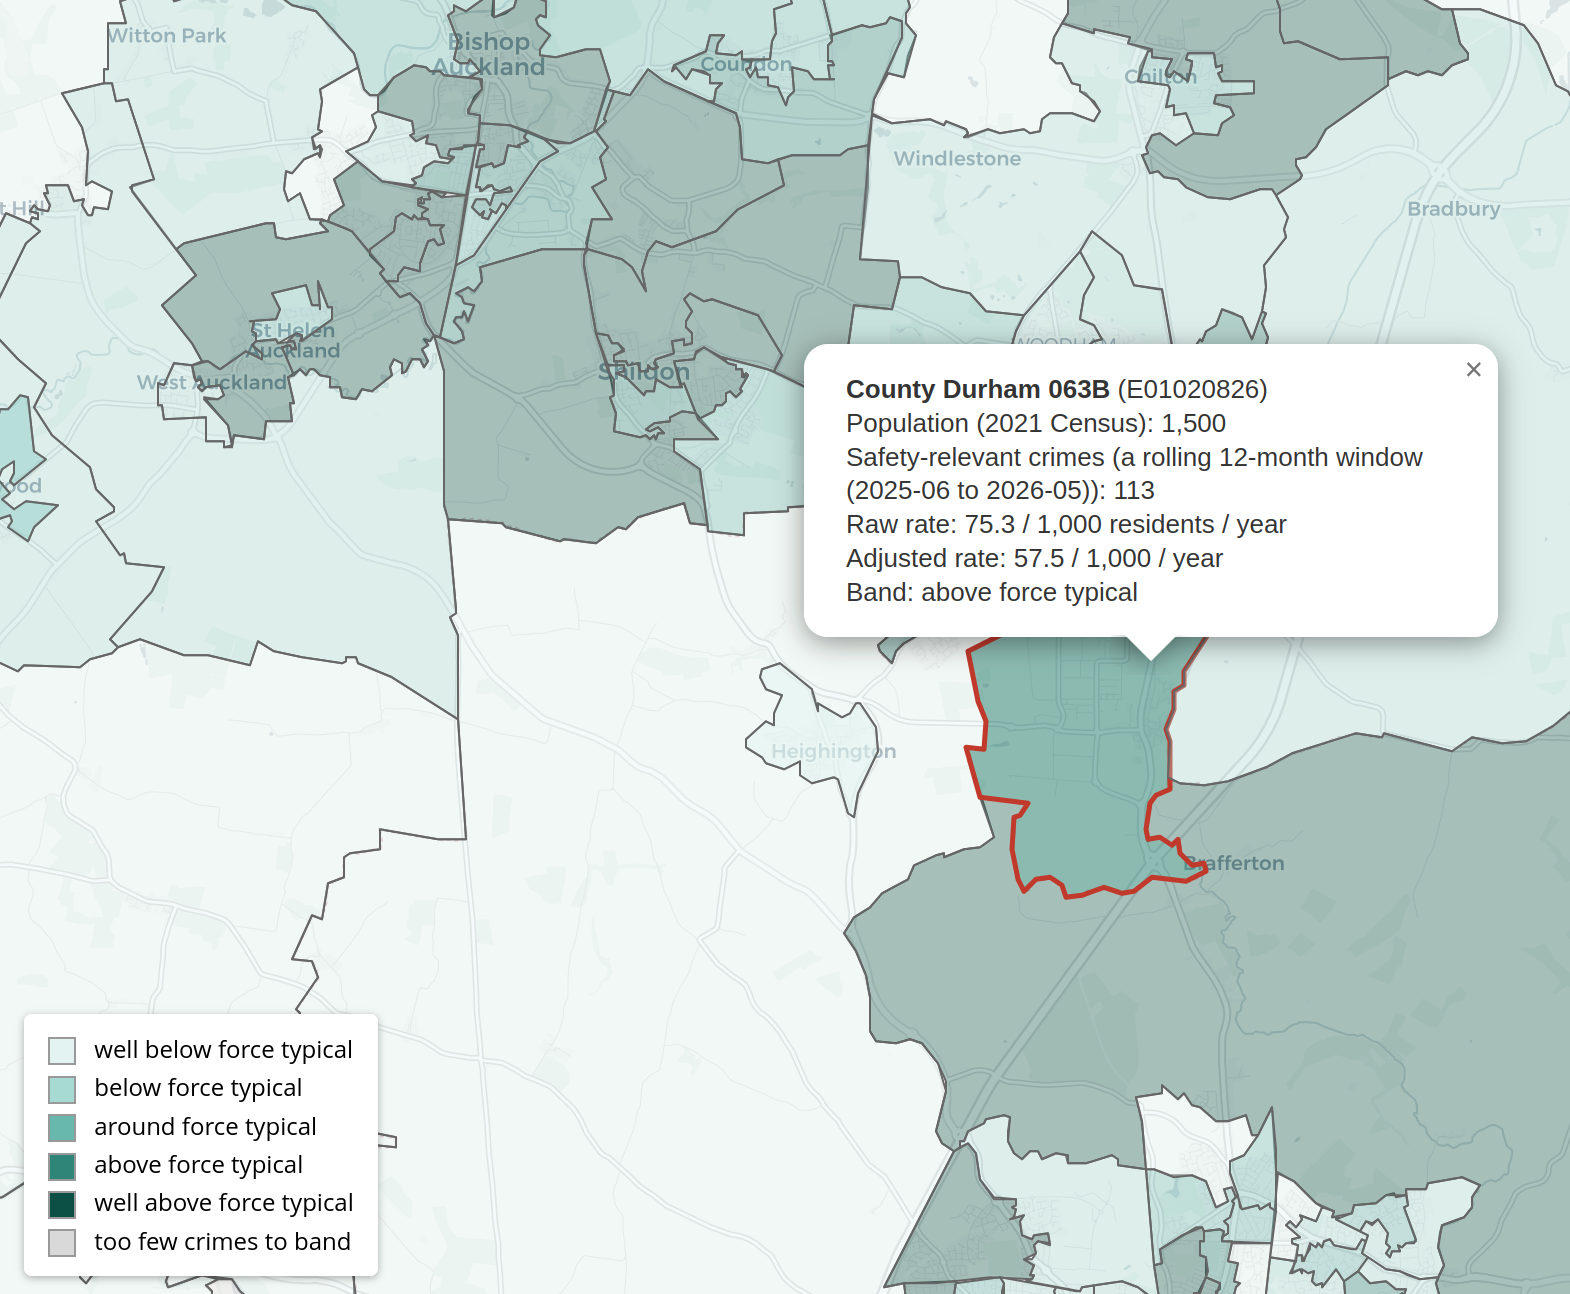
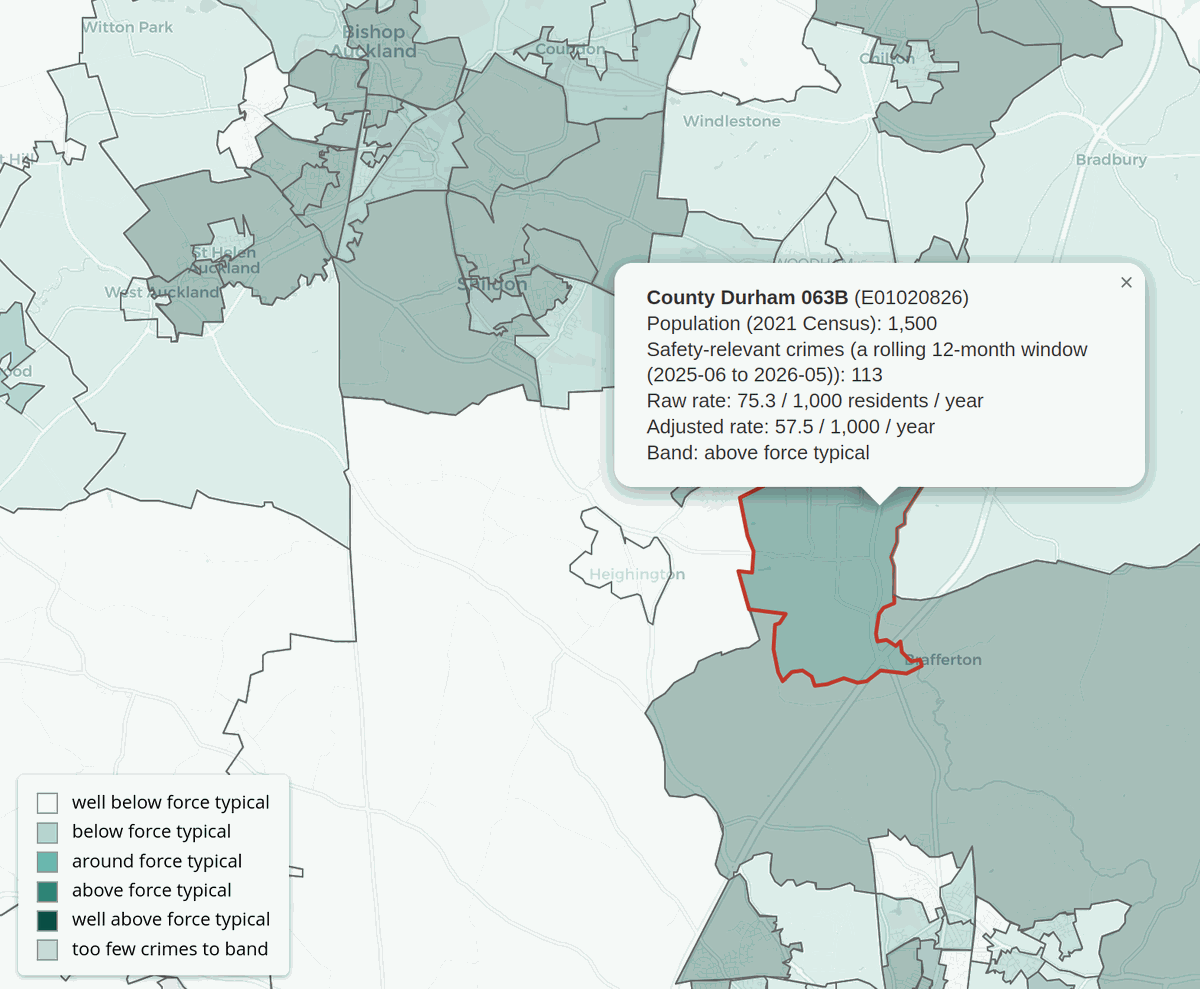
Embed real example output images in docs/examples.md, shrink both in place
Verified both PNGs are genuine example output, not mockups: WorksiteRisk.png shows real Census/crime-rate figures from crime_context_lsoa's own tooltip; the terrain screenshot documents a real rendering bug render.py's docstring already describes as found-and-fixed. Embedded both inline (width-capped <img>) next to their entries instead of just linking out.

Checked for a live preview of the drape's generated HTML - no GitHub Pages site exists and raw.githubusercontent.com serves .html as text/plain, not rendered - so it stays unlinked with an explicit note to generate and open it locally, rather than a link that would silently show source.

Both images were well over a comfortable repo-history size (2.3MB, 712KB) - resized to <=1200px wide and re-encoded as adaptive-palette PNGs (lossless-looking for flat-colour UI screenshots): 2.3MB -> 96KB and 712KB -> 122KB.

diff --git a/docs/examples.md b/docs/examples.md
@@ -48,6 +48,16 @@ missing.
 - **[`crime_context/`](../examples/crime_context/)** — a neighbourhood-level recorded-crime context map for one police force, built on `streetworks.police`. Background context for lone-worker/night-shift planning around street works — explicitly not a risk score or risk assessment. See its own [README](../examples/crime_context/README.md).
 - **[`crime_context_lsoa/`](../examples/crime_context_lsoa/)** — successor to `crime_context/`: LSOA-level geography, a real population denominator, and reframed around a single worksite ("what's the context for the crew going here") rather than a force-wide ranking. See its own [README](../examples/crime_context_lsoa/README.md).
 
+  <img src="../examples/crime_context_lsoa/WorksiteRisk.png" width="600" alt="LSOA-level crime-context choropleth around a Newton Aycliffe worksite, with a tooltip showing population, crime rate and band for one selected area">
+
+  Real output from this example — the tooltip's population, crime-rate and banding figures are genuine, not illustrative.
+
 ## Terrain visualisation
 
 - **[`nsg_terrain_drape/`](../examples/nsg_terrain_drape/)** — drapes OS Open USRN street centrelines over real terrain (OS Terrain 50) for Durham, as a rendered showcase with a genuine teaching point riding along: the drape is derived from two independently-sourced datasets, not stated by either, and it breaks in predictable, visible ways where they disagree. Produces a self-contained HTML view and an STL export for 3D printing. First run downloads and caches OS Open USRN (~300MB) and OS Terrain 50 (~160MB). See its own [README](../examples/nsg_terrain_drape/README.md).
+
+  <img src="../examples/nsg_terrain_drape/Screenshot_2026-08-06_08-52-56.png" width="600" alt="OS Open USRN street centrelines draped over a 3D terrain mesh of Durham, viewed at an angle">
+
+  Real output from an early build — kept because it documents a real rendering artifact (a road briefly dipping under a neighbouring terrain block where two independent samplings of the same terrain disagreed), since fixed; see `render.py`'s own docstring.
+
+  The generated HTML view itself (`durham_3D_showcase.html`) isn't linked here: GitHub serves `.html` files in this repo as raw source, not a rendered page, and this repo has no GitHub Pages site to render it live. Generate and open it locally instead (see the README linked above).
